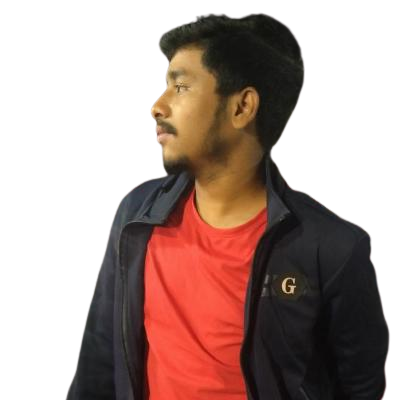
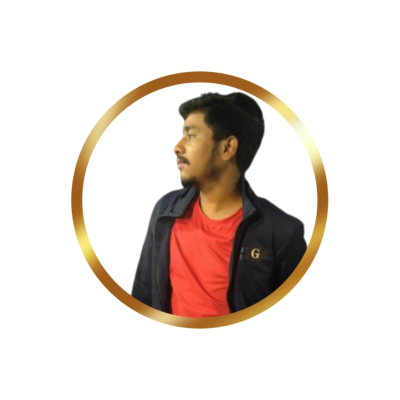
Image and style changed.

diff --git a/style.css b/style.css
@@ -147,7 +147,7 @@ body {
 }
 
 img {
-    height: 55vh;
-    width: 55vh;
+    height: 70vh;
+    width: 70vh;
     margin: 2rem 0;
 }
